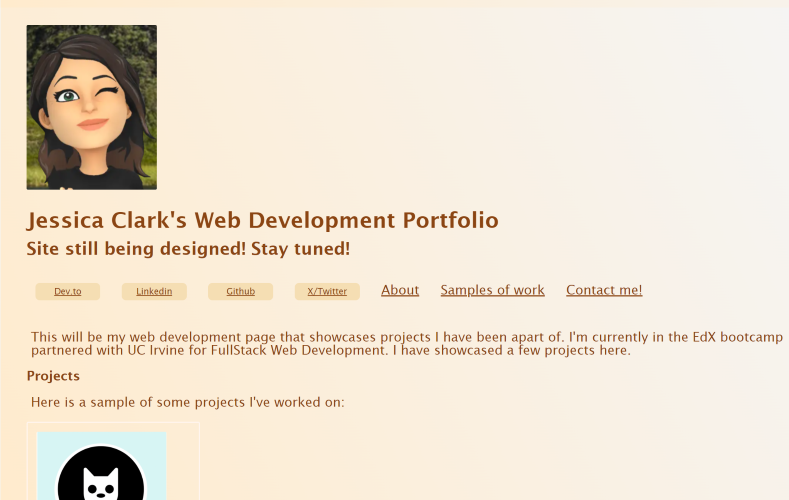
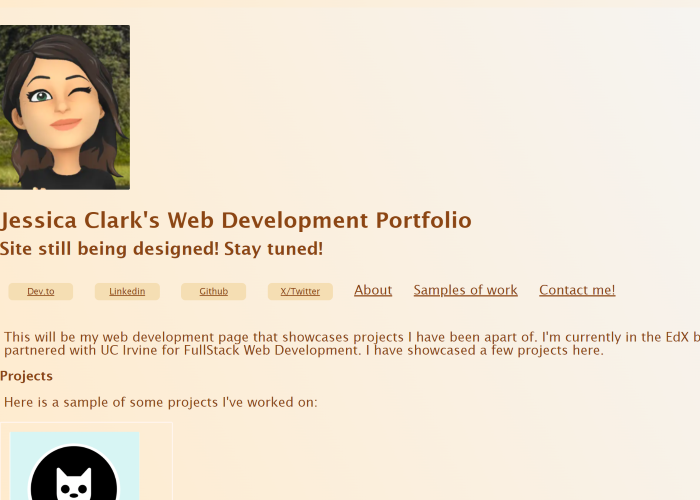
added css for pages

diff --git a/src/components/pages/Contact.jsx b/src/components/pages/Contact.jsx
@@ -1,28 +1,28 @@
 import React from 'react';
 export default function Contact() {
     return (
-        <section class='page' id='contactPage'>
-            <h2 class='title' id='contactTitle'>Hey you should contact me!</h2>
-            <form class='form' id='contact-form'>
-                <ul class='formArea' id='formArea'>
-                    <li class='infoArea' id='nameArea'>
-                        <label class='label' id='nameLabel'>Name:</label>
-                        <input class='input' id='nameInput'></input>
+        <section className='page' id='contactPage'>
+            <h2 className='title' id='contactTitle'>Hey you should contact me!</h2>
+            <form className='form' id='contact-form'>
+                <ul className='formArea' id='formArea'>
+                    <li className='infoArea' id='nameArea'>
+                        <label className='label' id='nameLabel'>Name:</label>
+                        <input className='input' id='nameInput'></input>
                     </li>
-                    <li class='infoArea' id='emailArea'>
-                        <label class='label' id='emailLabel'>Email:</label>
-                        <input class='input' id='emailInput'></input>
+                    <li className='infoArea' id='emailArea'>
+                        <label className='label' id='emailLabel'>Email:</label>
+                        <input className='input' id='emailInput'></input>
                     </li>
-                    <li class='infoArea' id='timeArea'>
-                        <label class='label' id='timeLabel'>Best time to reach you:</label>
-                        <input class='input' id='timeInput'></input>
+                    <li className='infoArea' id='timeArea'>
+                        <label className='label' id='timeLabel'>Best time to reach you:</label>
+                        <input className='input' id='timeInput'></input>
                     </li>
-                    <li class='infoArea' id='discussArea'>
-                        <label class='label' id='discussLabel'>What you'd like to discuss:</label>
-                        <input class='input' id='discussInput'></input>
+                    <li className='infoArea' id='discussArea'>
+                        <label className='label' id='discussLabel'>What you'd like to discuss:</label>
+                        <input className='input' id='discussInput'></input>
                     </li>
                 </ul>
-                <button class='button' id='formBtn'>Send</button>
+                <button className='button' id='formBtn'>Send</button>
             </form>
         </section>
     );

diff --git a/src/components/pages/Projects.jsx b/src/components/pages/Projects.jsx
@@ -1,21 +1,20 @@
 import React from 'react';
 export default function Projects() {
     return (
-        <section class='page' id='projectPage'>
-            <h2 class='title' id='projectTitle'>Check out some of my projects</h2>
+        <section className='page' id='projectPage'>
+            <h2 className='title' id='projectTitle'>Check out some of my projects</h2>
                 <ul id='portfolio'>
                     <li>
-                        <a class='link' id='weatherLink' href='https://jessclark1234.github.io/weather-api-app/'><img class='img' id='weatherImg' src='./assets/projectPhotos/weatherAPI.png' alt='5 Day Weather API'></img></a>
-                        
+                        <a className='link' id='weatherLink' href='https://jessclark1234.github.io/weather-api-app/'><img className='img' id='weatherImg' src='./assets/projectPhotos/weatherAPI.png' alt='5 Day Weather API'></img></a>
                     </li>
                     <li>
-                        <a class='link' id='readmeLink' href='https://github.com/jessclark1234/generate-README'><img class='img' id='readmeImg' src='./asstes/projectPhotos/generateREADME.png' alt='Generate README.md'></img></a>
+                        <a className='link' id='readmeLink' href='https://github.com/jessclark1234/generate-README'><img className='img' id='readmeImg' src='./assets/projectPhotos/generateREADME.png' alt='Generate README.md'></img></a>
                     </li>
                     <li>
-                        <a class='link' id='quizLink' href='https://jessclark1234.github.io/javascript-quiz/'><img class='img' id='quizImg' src='./assets/projectPhotos/javascriptQuiz.png' alt='JavaScript Skincare Quiz'></img></a>
+                        <a className='link' id='quizLink' href='https://jessclark1234.github.io/javascript-quiz/'><img className='img' id='quizImg' src='./assets/projectPhotos/javascriptQuiz.png' alt='JavaScript Skincare Quiz'></img></a>
                     </li>
                     <li>
-                        <a class='link' id='staticLink' href='https://jessclark1234.github.io/static-portfolio/'><img class='img' id='staticImg' src='./assets/projectPhotos/static-portfolio.png' alt='First Static Portfolio'></img></a>
+                        <a className='link' id='staticLink' href='https://jessclark1234.github.io/static-portfolio/'><img className='img' id='staticImg' src='./assets/projectPhotos/static-portfolio.png' alt='First Static Portfolio'></img></a>
                     </li>
                 </ul>
 

diff --git a/src/App.css b/src/App.css
@@ -1,0 +1,105 @@
+* {
+    font-family: Verdana, Geneva, Tahoma, sans-serif;
+    color: #DCE3E5;
+    text-align: center;
+}
+
+section{
+    background-color: #28262C;
+}
+
+header, footer{
+    font-size: 60px;
+    background-color: #28262C;
+    margin-bottom: 20px;
+    height: 100px;
+}
+
+#avatar{
+    margin: 30px;
+}
+
+.navtab {
+    display: block;
+    overflow: hidden;
+    background-color: #CD5334;
+    font-size: 20px;
+}
+
+.navtab li{
+    float: left;
+    margin-left: 150px;
+    padding: 5px;
+}
+
+.navtab li:hover{
+    background-color: #F3F7F5;
+    color: #CD5334;
+}
+
+.title{
+    font-size: 45px;
+    padding-top: 30px;
+}
+
+li{
+    list-style: none;
+}
+
+#homeDescription, #aboutDescription {
+    padding: 60px;
+}
+
+.description{
+    font-size: 15px;
+}
+
+
+#formBtn{
+    background-color: #CD5334;
+    border-radius: 30px;
+    width: 100px;
+    height: 30px;
+    margin-bottom: 20px;
+    border: #F2E1CF 1px solid;
+}
+
+#formBtn:hover, #resumeBtn:hover{
+    background-color: #F2E1CF;
+    color: #CD5334;
+}
+
+.input{
+    border: 2px solid #F3F7F5;
+    margin: 12px;
+    height: 25px;
+    width: 300px;
+    border-radius: 30px;
+    background-color: #F2E1CF;
+}
+
+.input:focus{
+    outline: 3px solid #CD5334;
+}
+
+#resumeTxt, #aboutTxt{
+    margin: 30px;
+}
+
+#resumeBtn{
+    background-color: #CD5334;
+    border-radius: 30px;
+    width: 200px;
+    height: 40px;
+    margin-bottom: 20px;
+    border: #F2E1CF 1px solid;
+}
+
+.img{
+    margin: 20px;
+    object-fit: fill;
+    height: 500px;
+    width: 700px;
+}
+
+

diff --git a/src/components/pages/About.jsx b/src/components/pages/About.jsx
@@ -2,11 +2,11 @@ import React from 'react';
 
 export default function About() {
     return (
-        <section class='page' id='aboutPage'>
-            <h2 class='title' id='aboutTitle'>About Me!</h2>
-            <h3 class='txt' id='aboutTxt'>
+        <section className='page' id='aboutPage'>
+            <h2 className='title' id='aboutTitle'>About Me!</h2>
+            <h3 className='txt' id='aboutTxt'>
                 Hi there! I started my Fullstack Web Development journey in September in 2023. I'm about to graduate my bootcamp with a certificate from University of California, Irvine. In this program I learned a lot.
-                <p class='description' id='aboutDescription'>
+                <p className='description' id='aboutDescription'>
                  In the first 2 months of the program, I learned how to use HTML, CSS and Javascript. I also learned how to make an application programming interface call through third-parties, server-side, and web. I also learned how to use Github and deploy a webpage. In the next two months, I learned how to use Node.js, Express.js, MySQL, Object-relational Mapping, and Object-oriented programming.
                  These last two months, I've learned some basic Computer Science and regex, NoSQL(mongoose), progressive web applications, React.js, MERN, and State.
                  </p>

diff --git a/src/components/pages/Homepage.jsx b/src/components/pages/Homepage.jsx
@@ -1,9 +1,10 @@
 import React from 'react';
 export default function Homepage() {
     return (
-        <section class='page' id='homePage'>
-            <h2 class='title' id='homeTitle'>Welcome to my web development page!</h2>
-            <p class='description' id='homeDescription'>
+        <section className='page' id='homePage'>
+            <h2 className='title' id='homeTitle'>Welcome to my web development page!</h2>
+            <img id='avatar' src='./assets/avatar/avatar.png'></img>
+            <p className='description' id='homeDescription'>
                 Here you will find my resume, a way to contact me, a little about me, and learn more about this site in general. Did you know this is my second portfolio? Wow, so cool. What was the first one? Just basic HTML and CSS. This one? Oh, nothing crazy. Just React.js along with some basic HTML and CSS. Wow she's really a developer.
             </p>
         </section>

diff --git a/src/components/pages/Resume.jsx b/src/components/pages/Resume.jsx
@@ -2,10 +2,10 @@ import PDF from '../../JessicaClarkResume.pdf'
 import React from 'react';
 export default function Resume() {
     return (
-        <section class='page' id='resumePage'>
-            <h2 class='title' id='resumeTitle'>Woah, hey there!</h2>
-            <h3 class='txt' id='resumeTxt'>I think it would be really cool if you hired me! Here's my resume!</h3>
-            <a href={PDF} download><button class='button' id='resumebtn'>Download this guy</button></a>
+        <section className='page' id='resumePage'>
+            <h2 className='title' id='resumeTitle'>Woah, hey there!</h2>
+            <h3 className='txt' id='resumeTxt'>I think it would be really cool if you hired me! Here's my resume!</h3>
+            <a href={PDF} download><button className='button' id='resumeBtn'>Download this guy</button></a>
         </section>
     );
 };

diff --git a/src/App.jsx b/src/App.jsx
@@ -7,7 +7,7 @@ import About from './components/pages/About';
 import Projects from './components/pages/Projects';
 import Contact from './components/pages/Contact';
 import Resume from './components/pages/Resume';
-
+import './App.css';
 
 export default function App() {
     const [currentPage, setCurrentPage] = useState('Homepage');
